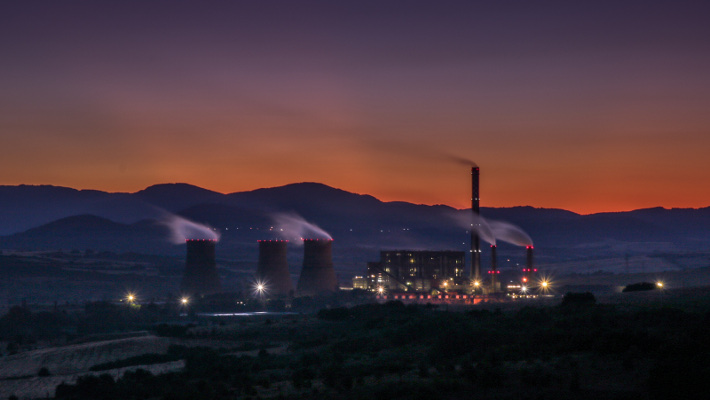
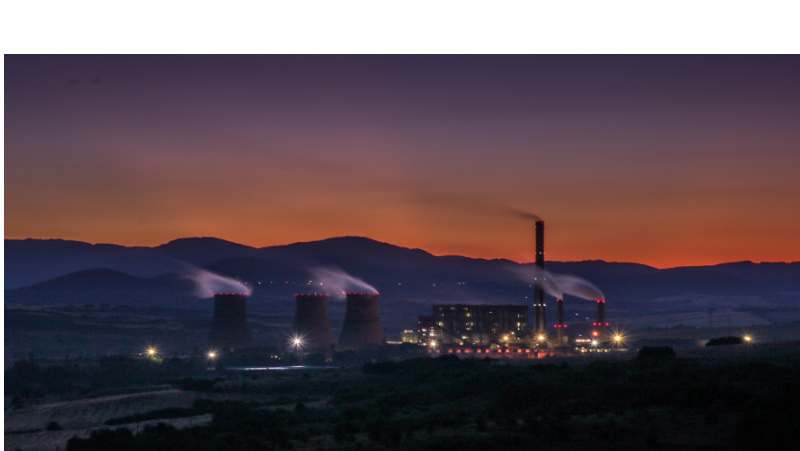
same size slider image

diff --git a/index.html b/index.html
@@ -57,7 +57,7 @@
 		<!--The below code is the wrapper for the carousel-->
 		<div class="carousel-inner" role="listbox">
 			<div class="item active">
-				<img  class="sliderImage img-responsive" src="images/factory.jpg" alt="no image">
+				<img  class="sliderImage img-responsive" src="images/factory1.jpg" alt="no image">
 				<div class="carousel-caption">
 					<h1>Image 1 </h1>
 				</div>
@@ -90,10 +90,7 @@
 			<div class="col-md-3"><h3>IndLabTools</h3><br>
 				<p>A distributor of biomedical devices</p>
 			</div>
-		</div>
-		<div class="row">
-			<div class="col-md-12"><p class="powered">Powered by Pied Piper</p>
-			</div>
+			<div class="col-md-5"><p class="powered">Powered by Pied Piper</p></div>
 		</div>
 	</div>
 </div>

diff --git a/contact.html b/contact.html
@@ -53,7 +53,7 @@
 	<h2 class="getInTouch">Get in touch with us!
 	</h2>
 	<div class="formStuff">
-		<form action="/action_page.php">
+		<form action="/var/www/html/index.php" method="post">
 			<div class="form-group">
 				<label for="firstName">*First Name:</label>
 				<input type="text" class="form-control" id="firstName" placeholder="Your First Name" name="firstName" required>

diff --git a/css/style.css b/css/style.css
@@ -9,7 +9,7 @@ ul.nav .logo1:hover{background-color:#EB6E80;}
 /*.nav .active {background-color: cyan;}*/
 .newnav{
 	padding-top:50px;
-	background-color: #D5394A;/*#b56357;*/
+	background-color: #5CB02F;/*red#D5394A*/;/*#b56357;*/
 	font-family: lobster;
 	font-size:2em;
 	background-size: cover;

diff --git a/index.php b/index.php
@@ -1,0 +1,13 @@
+<!DOCTYPE html>
+<html>
+<head>
+	<title>php stuff</title>
+</head>
+<body>
+HI<?php echo $_POST["firstName"];?>
+HELLO<?php echo $_POST["lastName"];?>
+BRO <?php echo $_POST["email"];?>
+SDFDSF<?php echo $_POST["mobileNumber"];?>
+
+</body>
+</html>						
